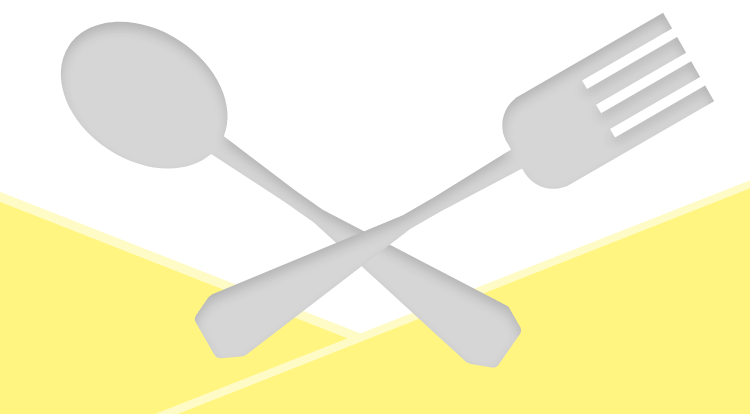
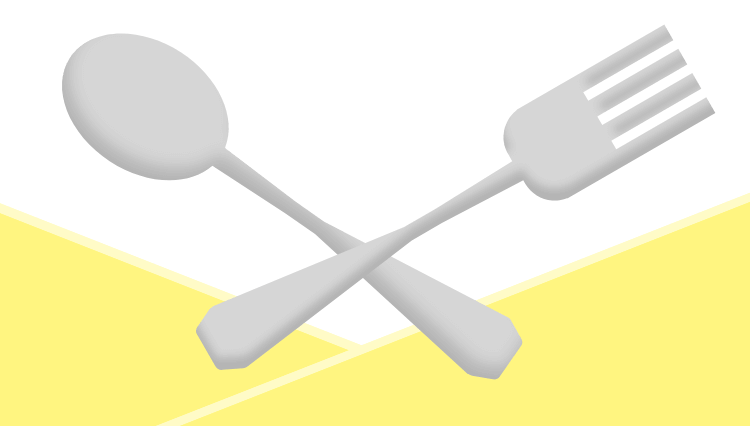
dev

diff --git a/main.js b/main.js
@@ -30,6 +30,33 @@ function setup()
 
 	// fft = new p5.FFT();
 	// fft.setInput(mic);
+
+	$.ajax({
+		type: 'post',
+		url: 'http://yusk1450.pythonanywhere.com/',
+		data: {'name': '考えてるよ'},
+		async: false,
+		cache: false,
+		dataType: 'text',
+		scriptCharaset: 'utf-8'
+	})
+	.then(
+		function(data)
+		{
+			console.log(data);
+			setTimeout(function()
+			{
+				// var audio = new Audio('http://10.23.16.61:8888/Prototype/aun/output.mp3?cb=' + new Date().getTime());
+				// audio.load();
+				// audio.play();
+			}, 1000);
+		},
+		function(error)
+		{
+			console.log('error');
+			console.log(error);
+		}
+	);
 }
 
 function draw()
@@ -40,7 +67,7 @@ function draw()
 
 	let volume = mic.getLevel();
 
-	image(topImg, 0, 0, windowWidth, 166*(windowWidth/750));
+	image(topImg, 0, 0, windowWidth, 366*(windowWidth/750));
 
 	const faceImgSize = (windowWidth * 0.7) + ((windowWidth * 0.5) * volume * 1.2);
 	image(faceImg, windowWidth/2 - faceImgSize/2, windowHeight/2 - faceImgSize/2, faceImgSize, faceImgSize);
@@ -53,9 +80,9 @@ function draw()
 	// {
 	// 	image(quietlyImg, windowWidth/2 - 121/2, 448, 121, 127);
 	// }
-	image(quietlyImg, windowWidth/2 - 121/2, 448, 121, 127);
+	image(quietlyImg, windowWidth/2 - 121/2, 448, 121, 124);
 
-	image(bottomImg, 0, windowHeight-(414*(windowWidth/750)), windowWidth, 414*(windowWidth/750));
+	image(bottomImg, 0, windowHeight-(426*(windowWidth/750)), windowWidth, 426*(windowWidth/750));
 
 	// let spectrum = fft.analyze();
 }
@@ -72,6 +99,121 @@ function gotResult(error, results)
 	$('.result').html(results[0]['label']+'('+results[0]['confidence']+')').css('color', 'black');
 	if (results[0]['confidence'] > 0.85)
 	{
+		if (results[0]['label'] == 'バックグラウンド ノイズ')
+		{
+			return;
+		}
+
+		if (results[0]['label'] == 'think')
+		{
+			$.ajax({
+				type: 'post',
+				url: 'http://yusk1450.pythonanywhere.com/',
+				data: {'name': '考えてるよ'},
+				async: false,
+				cache: false,
+				dataType: 'text',
+				scriptCharaset: 'utf-8'
+			})
+			.then(
+				function(data)
+				{
+					setTimeout(function()
+					{
+						// var audio = new Audio('http://10.23.16.61:8888/Prototype/aun/output.mp3?cb=' + new Date().getTime());
+						// audio.load();
+						// audio.play();
+					}, 1000);
+				},
+				function(error)
+				{
+					console.log('error');
+					console.log(error);
+				}
+			);
+		}
+		else if (results[0]['label'] == 'question')
+		{
+			$.ajax({
+				type: 'post',
+				url: 'http://yusk1450.pythonanywhere.com/',
+				data: {'name': 'なに？'},
+				async: false,
+				cache: false,
+				dataType: 'text',
+				scriptCharaset: 'utf-8'
+			})
+			.then(
+				function(data)
+				{
+					setTimeout(function()
+					{
+						// var audio = new Audio('http://10.23.16.61:8888/Prototype/aun/output.mp3?cb=' + new Date().getTime());
+						// audio.load();
+						// audio.play();
+					}, 1000);
+				},
+				function()
+				{
+					console.log('error');
+				}
+			);
+		}
+		else if (results[0]['label'] == 'ok')
+		{
+			$.ajax({
+				type: 'post',
+				url: 'http://yusk1450.pythonanywhere.com/',
+				data: {'name': 'そうだね'},
+				async: false,
+				cache: false,
+				dataType: 'text',
+				scriptCharaset: 'utf-8'
+			})
+			.then(
+				function(data)
+				{
+					setTimeout(function()
+					{
+						// var audio = new Audio('http://10.23.16.61:8888/Prototype/aun/output.mp3?cb=' + new Date().getTime());
+						// audio.load();
+						// audio.play();
+					}, 1000);
+				},
+				function()
+				{
+					console.log('error');
+				}
+			);
+		}
+		else if (results[0]['label'] == 'please')
+		{
+			$.ajax({
+				type: 'post',
+				url: 'http://yusk1450.pythonanywhere.com/',
+				data: {'name': 'これ'},
+				async: false,
+				cache: false,
+				dataType: 'text',
+				scriptCharaset: 'utf-8'
+			})
+			.then(
+				function(data)
+				{
+					setTimeout(function()
+					{
+						// var audio = new Audio('http://10.23.16.61:8888/Prototype/aun/output.mp3?cb=' + new Date().getTime());
+						// audio.load();
+						// audio.play();
+					}, 1000);
+				},
+				function()
+				{
+					console.log('error');
+				}
+			);
+		}
+
 		console.log(results);
 		$('.result').html(results[0]['label']+'('+results[0]['confidence']+')').css('color', 'red');
 	}

diff --git a/index.html b/index.html
@@ -5,10 +5,10 @@
 	<meta http-equiv="X-UA-Compatible" content="IE=edge">
 	<meta name="viewport" content="width=device-width, initial-scale=1.0">
 	<link rel="stylesheet" href="style.css">
-	<title>Document</title>
+	<title>トーク「うん」</title>
 </head>
 <body>
-	<div>結果：<span class="result"></span></div>
+	<!-- <div>結果：<span class="result"></span></div> -->
 
 	<script src="./jquery-2.1.3.min.js"></script>
 	<script src="./p5.min.js"></script>

diff --git a/style.css b/style.css
@@ -2,3 +2,8 @@ body
 {
 	margin: 0;
 }
+
+audio
+{
+	display: none;
+}
